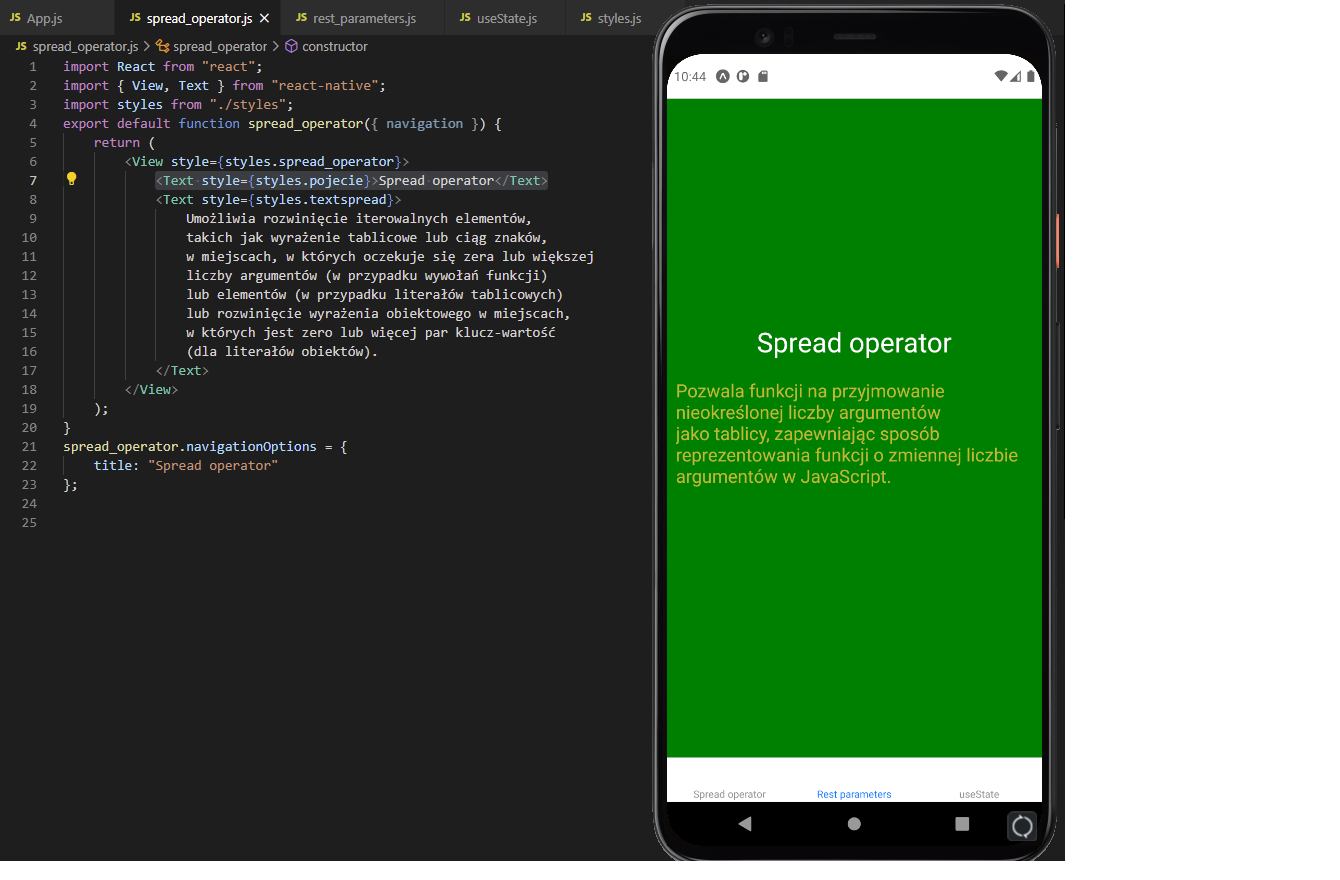
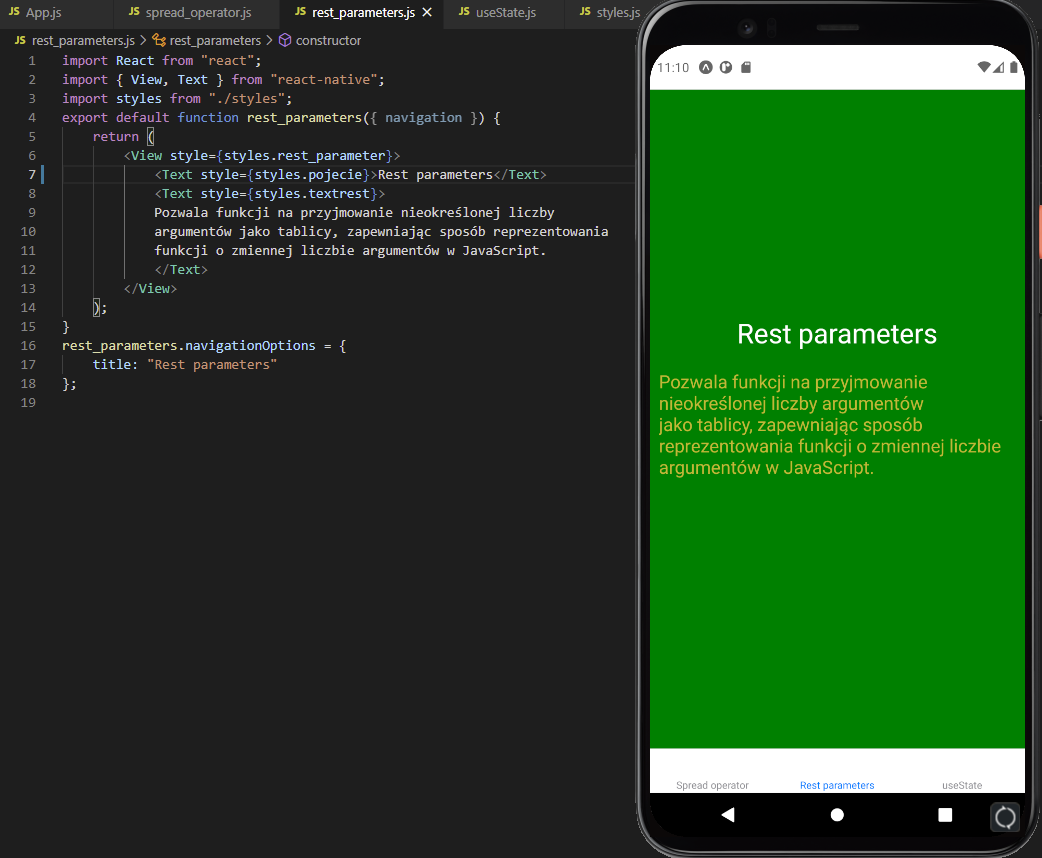
Lab2

diff --git a/Lab2Navi/rest_parameters.js b/Lab2Navi/rest_parameters.js
@@ -4,7 +4,7 @@ import styles from "./styles";
 export default function rest_parameters({ navigation }) {
     return (
         <View style={styles.rest_parameter}>
-            <Text style={styles.pojecie}>Spread operator</Text>
+            <Text style={styles.pojecie}>Rest parameters</Text>
             <Text style={styles.textrest}>
             Pozwala funkcji na przyjmowanie nieokreślonej liczby 
             argumentów jako tablicy, zapewniając sposób reprezentowania
